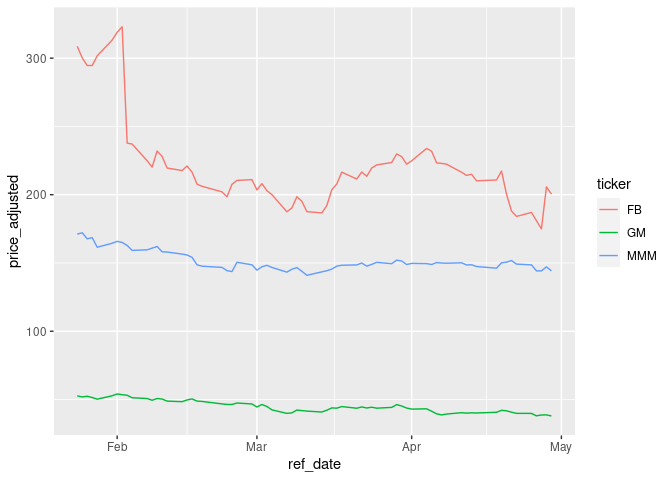
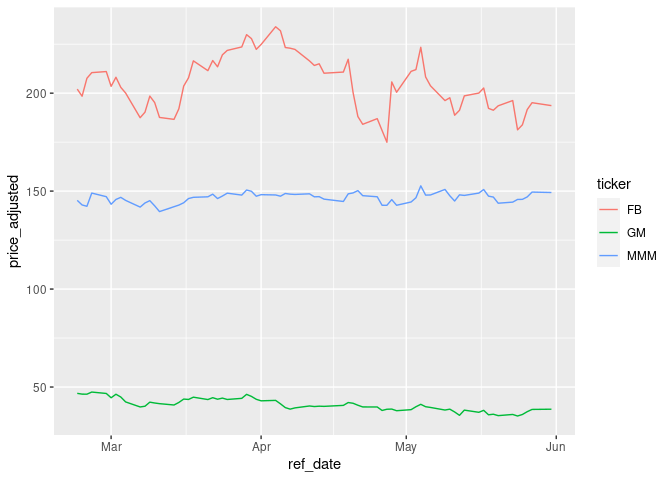
build readme

diff --git a/README.md b/README.md
@@ -135,29 +135,29 @@ df_yf <- yf_get(tickers = my_ticker,
                      first_date = first_date,
                      last_date = last_date)
 #> 
-#> ── Running yfR for 1 stocks | 2022-04-02 --> 2022-05-02 (30 days) ──
+#> ── Running yfR for 1 stocks | 2022-05-02 --> 2022-06-01 (30 days) ──
 #> 
 #> ℹ Downloading data for benchmark ticker ^GSPC
 #> ℹ (1/1) Fetching data for FB
 #> !    - not cached
 #> ✔    - cache saved successfully
-#> ✔    - got 19 valid rows (2022-04-04 --> 2022-04-29)
-#> ✔    - got 100% of valid prices -- Good job msperlin!
+#> ✔    - got 21 valid rows (2022-05-02 --> 2022-05-31)
+#> ✔    - got 100% of valid prices -- Nice!
 #> ℹ Binding price data
 
 # output is a tibble with data
 head(df_yf)
-#> # A tibble: 6 × 10
+#> # A tibble: 6 × 11
 #>   ticker ref_date   price_open price_high price_low price_close   volume
 #>   <chr>  <date>          <dbl>      <dbl>     <dbl>       <dbl>    <dbl>
-#> 1 FB     2022-04-04       226.       234.      226.        234. 28054800
-#> 2 FB     2022-04-05       234.       237.      231.        232. 29727200
-#> 3 FB     2022-04-06       227.       229.      221.        223. 28995100
-#> 4 FB     2022-04-07       224.       226.      219.        223. 21037200
-#> 5 FB     2022-04-08       222.       225.      220.        222. 18363700
-#> 6 FB     2022-04-11       218.       221.      215.        216. 20516600
-#> # … with 3 more variables: price_adjusted <dbl>, ret_adjusted_prices <dbl>,
-#> #   ret_closing_prices <dbl>
+#> 1 FB     2022-05-02       201.       212.      201.        211. 49915300
+#> 2 FB     2022-05-03       210.       215.      208.        212. 41556300
+#> 3 FB     2022-05-04       211.       224.      207.        223. 41375900
+#> 4 FB     2022-05-05       219.       220.      206.        208. 41129200
+#> 5 FB     2022-05-06       207.       209.      201.        204. 34733600
+#> 6 FB     2022-05-09       200.       203.      196.        196. 36303200
+#> # … with 4 more variables: price_adjusted <dbl>, ret_adjusted_prices <dbl>,
+#> #   ret_closing_prices <dbl>, cumret_adjusted_prices <dbl>
 ```
 
 ### Fetching many stock prices
@@ -174,24 +174,24 @@ df_yf_multiple <- yf_get(tickers = my_ticker,
                               first_date = first_date,
                               last_date = last_date)
 #> 
-#> ── Running yfR for 3 stocks | 2022-01-22 --> 2022-05-02 (100 days) ──
+#> ── Running yfR for 3 stocks | 2022-02-21 --> 2022-06-01 (100 days) ──
 #> 
 #> ℹ Downloading data for benchmark ticker ^GSPC
 #> ℹ (1/3) Fetching data for FB
-#> ✔    - found cache file (2022-04-04 --> 2022-04-29)
+#> ✔    - found cache file (2022-05-02 --> 2022-05-31)
 #> !    - need new data (cache doesnt match query)
-#> ✔    - got 68 valid rows (2022-01-24 --> 2022-04-29)
-#> ✔    - got 100% of valid prices -- You got it msperlin!
+#> ✔    - got 69 valid rows (2022-02-22 --> 2022-05-31)
+#> ✔    - got 100% of valid prices -- Good stuff!
 #> ℹ (2/3) Fetching data for GM
 #> !    - not cached
 #> ✔    - cache saved successfully
-#> ✔    - got 68 valid rows (2022-01-24 --> 2022-04-29)
-#> ✔    - got 100% of valid prices -- Youre doing good!
+#> ✔    - got 69 valid rows (2022-02-22 --> 2022-05-31)
+#> ✔    - got 100% of valid prices -- Nice!
 #> ℹ (3/3) Fetching data for MMM
 #> !    - not cached
 #> ✔    - cache saved successfully
-#> ✔    - got 68 valid rows (2022-01-24 --> 2022-04-29)
-#> ✔    - got 100% of valid prices -- Time for some tea?
+#> ✔    - got 69 valid rows (2022-02-22 --> 2022-05-31)
+#> ✔    - got 100% of valid prices -- All OK!
 #> ℹ Binding price data
 
 
@@ -245,14 +245,14 @@ df_dailly <- yf_get(tickers = my_ticker,
                          freq_data = 'daily') %>%
   mutate(freq = 'daily')
 #> 
-#> ── Running yfR for 1 stocks | 2010-01-01 --> 2022-05-02 (4504 days) ──
+#> ── Running yfR for 1 stocks | 2010-01-01 --> 2022-06-01 (4534 days) ──
 #> 
 #> ℹ Downloading data for benchmark ticker ^GSPC
 #> ℹ (1/1) Fetching data for GE
 #> !    - not cached
 #> ✔    - cache saved successfully
-#> ✔    - got 3103 valid rows (2010-01-04 --> 2022-04-29)
-#> ✔    - got 100% of valid prices -- Mais faceiro que guri de bombacha nova!
+#> ✔    - got 3124 valid rows (2010-01-04 --> 2022-05-31)
+#> ✔    - got 100% of valid prices -- All OK!
 #> ℹ Binding price data
 
 
@@ -261,13 +261,13 @@ df_weekly <- yf_get(tickers = my_ticker,
                          freq_data = 'weekly') %>%
   mutate(freq = 'weekly')
 #> 
-#> ── Running yfR for 1 stocks | 2010-01-01 --> 2022-05-02 (4504 days) ──
+#> ── Running yfR for 1 stocks | 2010-01-01 --> 2022-06-01 (4534 days) ──
 #> 
 #> ℹ Downloading data for benchmark ticker ^GSPC
 #> ℹ (1/1) Fetching data for GE
-#> ✔    - found cache file (2010-01-04 --> 2022-04-29)
-#> ✔    - got 3103 valid rows (2010-01-04 --> 2022-04-29)
-#> ✔    - got 100% of valid prices -- Well done msperlin!
+#> ✔    - found cache file (2010-01-04 --> 2022-05-31)
+#> ✔    - got 3124 valid rows (2010-01-04 --> 2022-05-31)
+#> ✔    - got 100% of valid prices -- Looking good!
 #> ℹ Binding price data
 
 df_monthly <- yf_get(tickers = my_ticker, 
@@ -275,13 +275,13 @@ df_monthly <- yf_get(tickers = my_ticker,
                           freq_data = 'monthly') %>%
   mutate(freq = 'monthly')
 #> 
-#> ── Running yfR for 1 stocks | 2010-01-01 --> 2022-05-02 (4504 days) ──
+#> ── Running yfR for 1 stocks | 2010-01-01 --> 2022-06-01 (4534 days) ──
 #> 
 #> ℹ Downloading data for benchmark ticker ^GSPC
 #> ℹ (1/1) Fetching data for GE
-#> ✔    - found cache file (2010-01-04 --> 2022-04-29)
-#> ✔    - got 3103 valid rows (2010-01-04 --> 2022-04-29)
-#> ✔    - got 100% of valid prices -- Good stuff!
+#> ✔    - found cache file (2010-01-04 --> 2022-05-31)
+#> ✔    - got 3124 valid rows (2010-01-04 --> 2022-05-31)
+#> ✔    - got 100% of valid prices -- Good job msperlin!
 #> ℹ Binding price data
 
 df_yearly <- yf_get(tickers = my_ticker, 
@@ -289,13 +289,13 @@ df_yearly <- yf_get(tickers = my_ticker,
                          freq_data = 'yearly') %>%
   mutate(freq = 'yearly')
 #> 
-#> ── Running yfR for 1 stocks | 2010-01-01 --> 2022-05-02 (4504 days) ──
+#> ── Running yfR for 1 stocks | 2010-01-01 --> 2022-06-01 (4534 days) ──
 #> 
 #> ℹ Downloading data for benchmark ticker ^GSPC
 #> ℹ (1/1) Fetching data for GE
-#> ✔    - found cache file (2010-01-04 --> 2022-04-29)
-#> ✔    - got 3103 valid rows (2010-01-04 --> 2022-04-29)
-#> ✔    - got 100% of valid prices -- Well done msperlin!
+#> ✔    - found cache file (2010-01-04 --> 2022-05-31)
+#> ✔    - got 3124 valid rows (2010-01-04 --> 2022-05-31)
+#> ✔    - got 100% of valid prices -- Youre doing good!
 #> ℹ Binding price data
 
 df_allfreq <- bind_rows(
@@ -337,21 +337,21 @@ df_yf_multiple <- yf_get(tickers = my_ticker,
                               first_date = first_date,
                               last_date = last_date)
 #> 
-#> ── Running yfR for 3 stocks | 2022-01-22 --> 2022-05-02 (100 days) ──
+#> ── Running yfR for 3 stocks | 2022-02-21 --> 2022-06-01 (100 days) ──
 #> 
 #> ℹ Downloading data for benchmark ticker ^GSPC
 #> ℹ (1/3) Fetching data for FB
-#> ✔    - found cache file (2022-01-24 --> 2022-04-29)
-#> ✔    - got 68 valid rows (2022-01-24 --> 2022-04-29)
-#> ✔    - got 100% of valid prices -- Good job msperlin!
+#> ✔    - found cache file (2022-02-22 --> 2022-05-31)
+#> ✔    - got 69 valid rows (2022-02-22 --> 2022-05-31)
+#> ✔    - got 100% of valid prices -- Got it!
 #> ℹ (2/3) Fetching data for GM
-#> ✔    - found cache file (2022-01-24 --> 2022-04-29)
-#> ✔    - got 68 valid rows (2022-01-24 --> 2022-04-29)
-#> ✔    - got 100% of valid prices -- Time for some tea?
+#> ✔    - found cache file (2022-02-22 --> 2022-05-31)
+#> ✔    - got 69 valid rows (2022-02-22 --> 2022-05-31)
+#> ✔    - got 100% of valid prices -- You got it msperlin!
 #> ℹ (3/3) Fetching data for MMM
-#> ✔    - found cache file (2022-01-24 --> 2022-04-29)
-#> ✔    - got 68 valid rows (2022-01-24 --> 2022-04-29)
-#> ✔    - got 100% of valid prices -- Time for some tea?
+#> ✔    - found cache file (2022-02-22 --> 2022-05-31)
+#> ✔    - got 69 valid rows (2022-02-22 --> 2022-05-31)
+#> ✔    - got 100% of valid prices -- Well done msperlin!
 #> ℹ Binding price data
 
 l_wide <- yf_convert_to_wide(df_yf_multiple)
@@ -362,10 +362,10 @@ head(prices_wide)
 #> # A tibble: 6 × 4
 #>   ref_date      FB    GM   MMM
 #>   <date>     <dbl> <dbl> <dbl>
-#> 1 2022-01-24  309.  52.6  171.
-#> 2 2022-01-25  300.  51.9  172.
-#> 3 2022-01-26  295.  52.3  168.
-#> 4 2022-01-27  295.  51.5  169.
-#> 5 2022-01-28  302.  50.2  162.
-#> 6 2022-01-31  313.  52.7  164.
+#> 1 2022-02-22  202.  46.8  145.
+#> 2 2022-02-23  198.  46.4  143.
+#> 3 2022-02-24  208.  46.3  142.
+#> 4 2022-02-25  210.  47.4  149.
+#> 5 2022-02-28  211.  46.7  147.
+#> 6 2022-03-01  203.  44.5  143.
 ```
